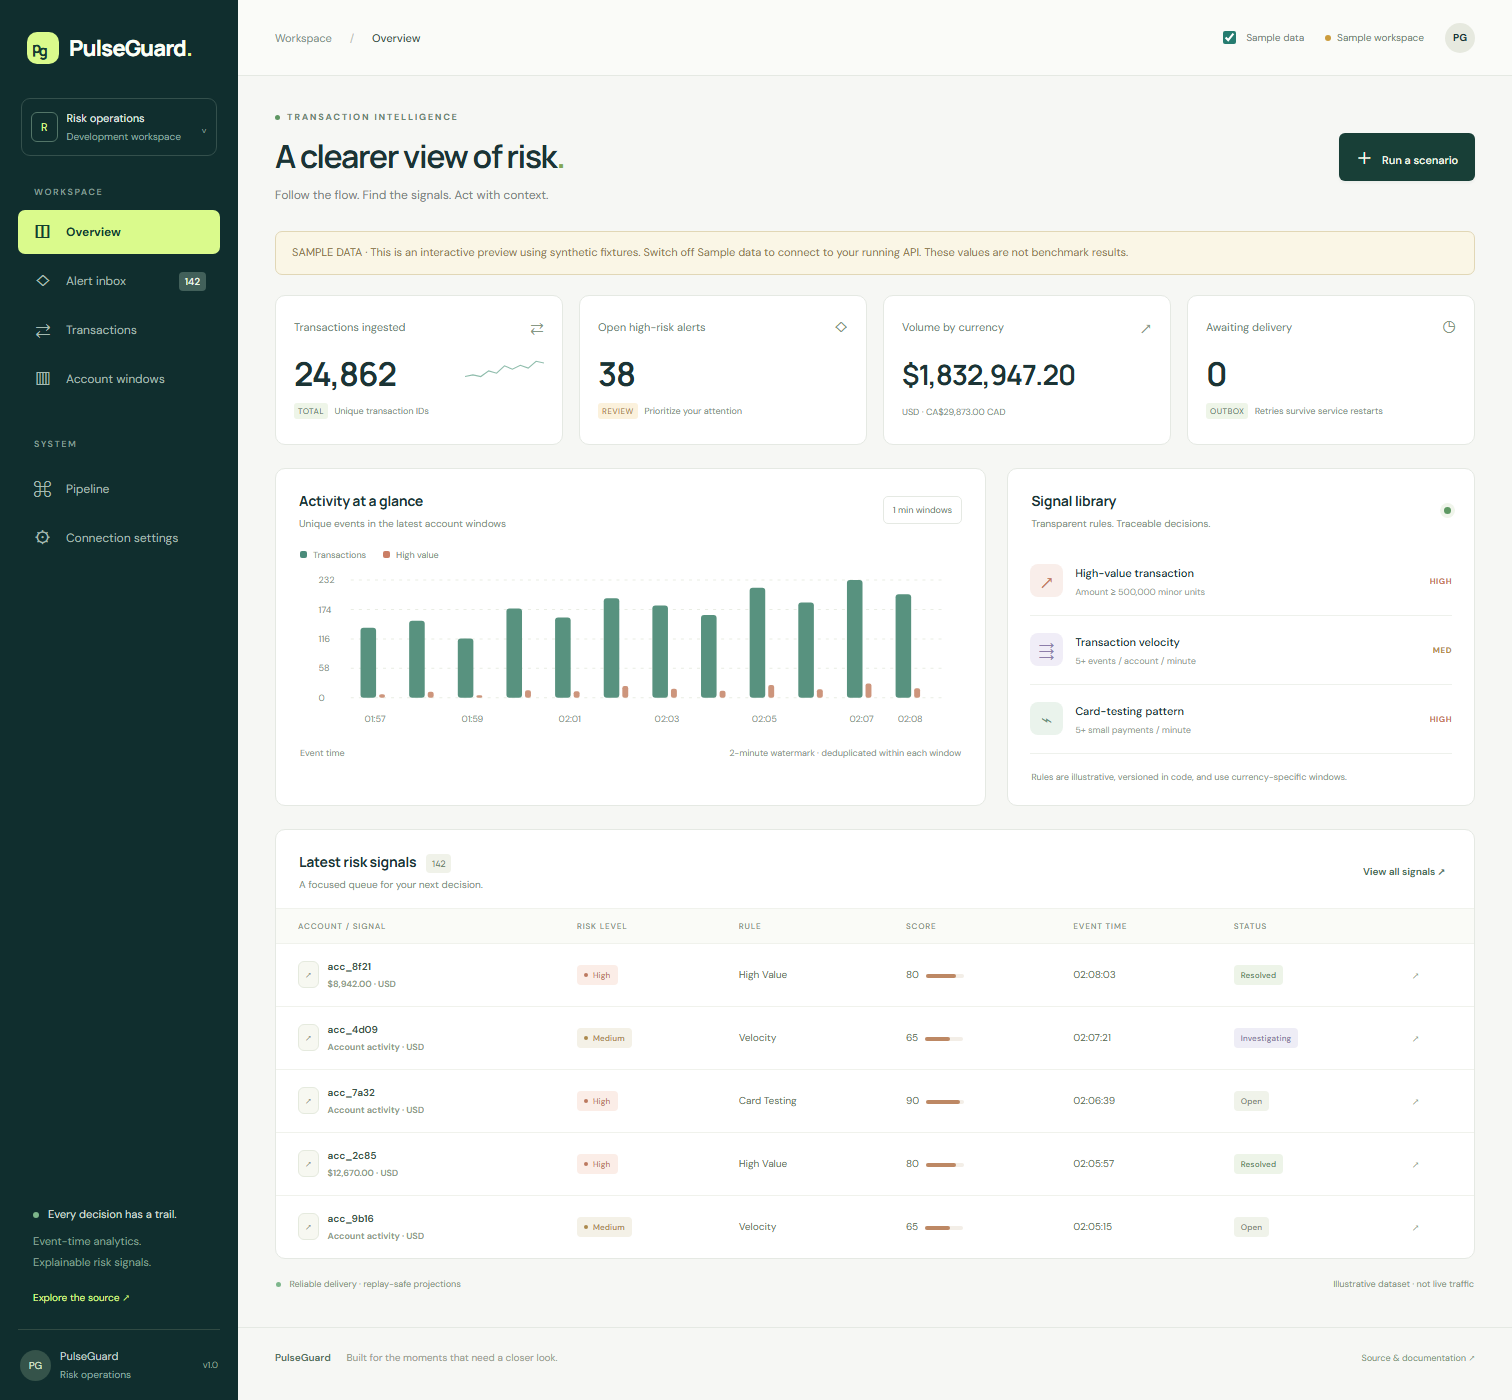
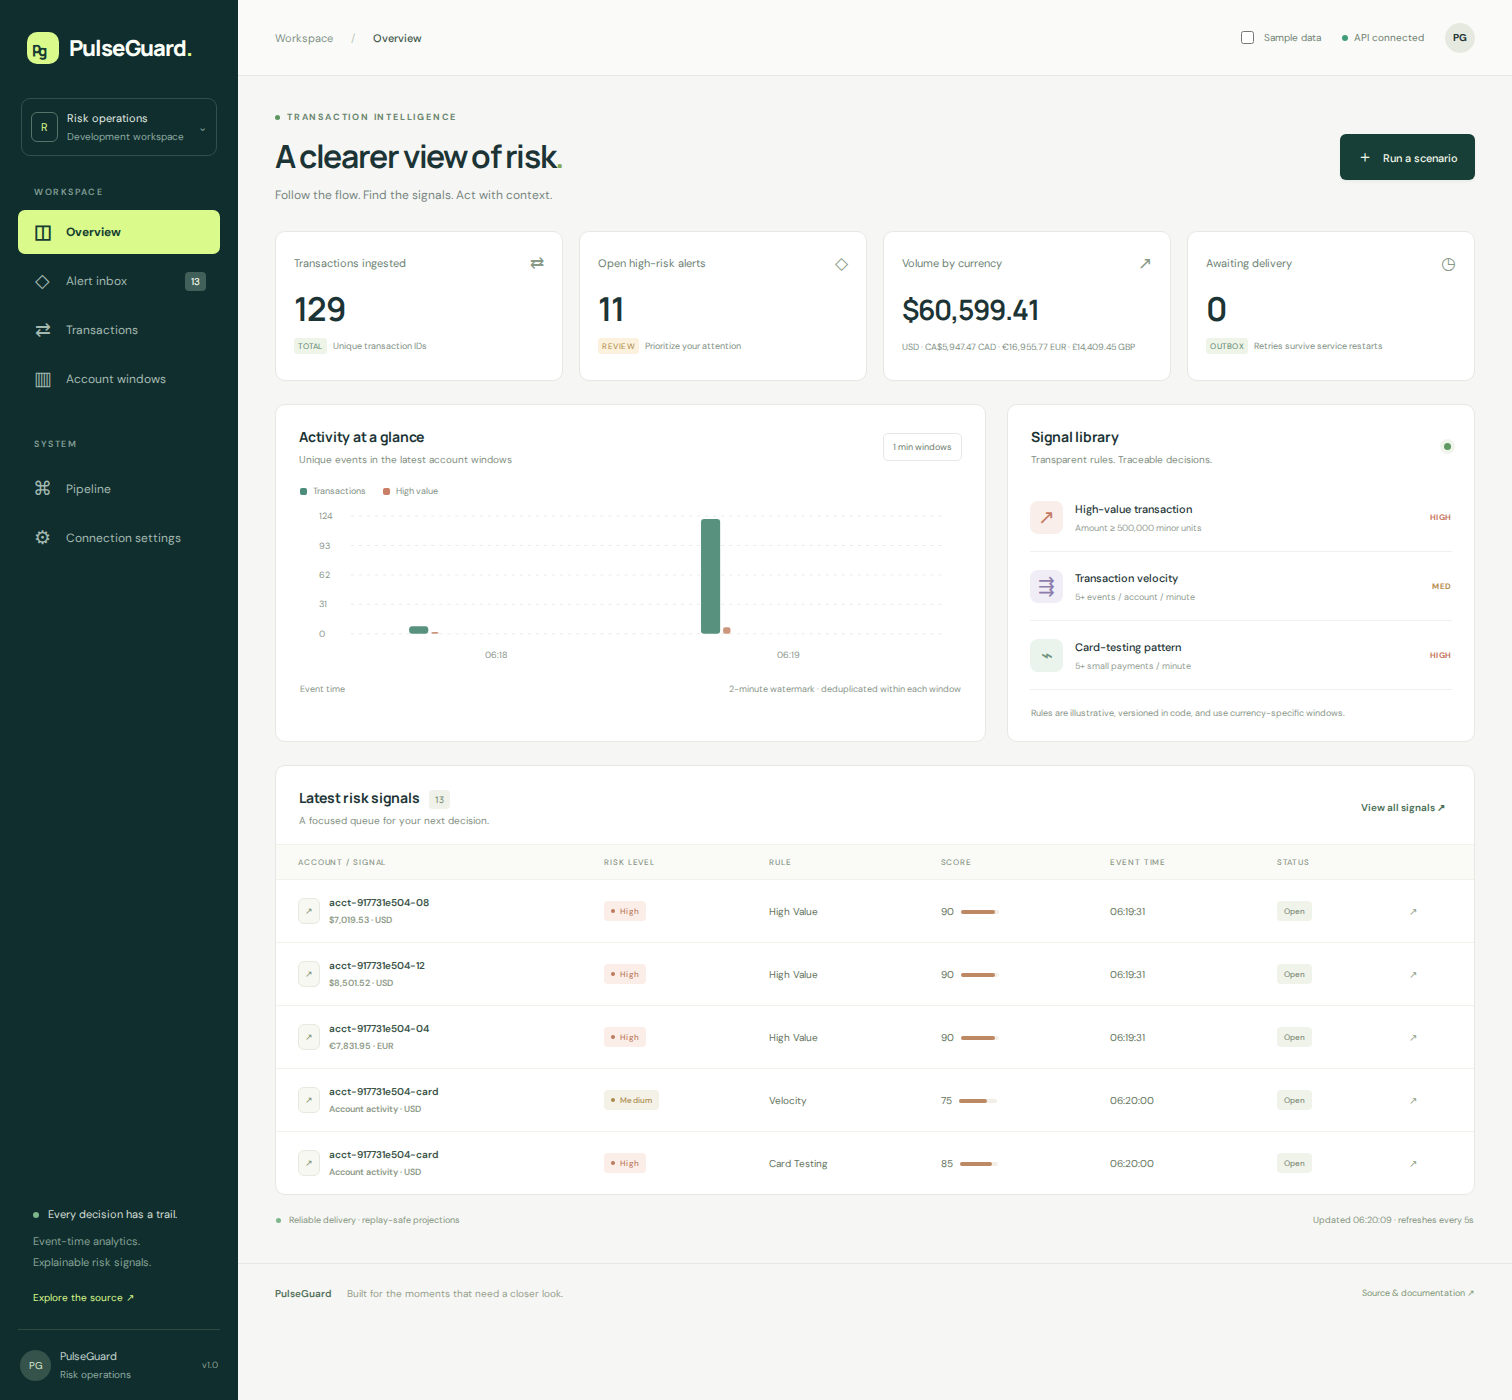
Document passing runtime verification and live dashboard evidence [skip ci]

diff --git a/docs/verification.md b/docs/verification.md
@@ -1,32 +1,73 @@
 # Verification record
 
-This file records observed results, separately from the deployment reference and future capacity work.
+Observed on **2026-09-13**. All figures below come from retained CI output. The source events are synthetic; Kafka, MongoDB, Spark, the Java API, browser and Kubernetes cluster are real running components.
 
-## Local environment
+## Passing runs
 
-- Windows 11, Microsoft OpenJDK 17.0.16, Maven 3.9.11.
-- Both Java modules compile and package. The current API's 28 unit/MVC tests and streaming module's 21 unit tests pass locally.
-- Real local Spark parsing and batch aggregation execute on the JVM. The file-stream checkpoint test requires Linux/Hadoop native support and was blocked on Windows by `NativeIO$Windows.access0`.
-- Compose/Kustomize/configuration rendering and Kafka connector dependency resolution were checked.
-- Docker Desktop failed during its own inference-manager startup, before the project containers could launch. No local full-stack success is claimed.
+| Run | Commit | Observed result |
+|---|---|---|
+| [Full verify workflow](https://github.com/wxw2002a/pulseguard/actions/runs/34742387094) | `7554a95` | Java tests, browser checks and full Compose recovery pipeline all pass |
+| [Kubernetes smoke](https://github.com/wxw2002a/pulseguard/actions/runs/34742236882) | `1897933` | Real one-node kind cluster; development manifests deploy and the payment event pipeline passes |
 
-## Continuous integration
+The difference between these commits changes documentation, a UI ordering caption and the Compose-only BSON assertion/export. The application backend, Spark engine and Kubernetes manifests tested in the cluster are identical. Later evidence-only commits do not change the tested runtime.
 
-The [verify workflow](https://github.com/wxw2002a/pulseguard/actions/workflows/ci.yml) contains independent jobs:
+## Java: 57 tests, zero failures, zero skips
 
-1. Java unit/MVC tests, real local Spark event-time/checkpoint tests, and Testcontainers MongoDB/Kafka integration tests.
-2. Build and start the entire Compose stack, exercise the API/rules and original evidence, inject Kafka duplicates/invalid records, and restart Spark against retained checkpoints. Require both new event alerts and window updates after restart, preserve review history, then stop/recover Kafka to verify the durable outbox. Produce a measured HTTP load report and capture the dashboard against the running API.
-3. Chromium checks for the dashboard's live/preview distinction, filters, review actions, authenticated synthetic scenarios, escaping, mobile layout and failure states.
+The [retained JUnit summary](artifacts/java-test-summary.json) contains all suite counts:
 
-Each run uploads Maven test reports and pipeline logs/reports. Consult the linked run for its current status; a workflow definition alone is not evidence that its jobs have passed. A pinned passing-run reference will be added after the first successful execution.
+- **28 API unit/MVC tests:** request validation, immutable IDs and conflicts, outbox leases/acknowledgements, exact Kafka wire timestamp, nanosecond-preserving storage, review validation and investigation queries.
+- **5 real MongoDB/Kafka integration tests:** actual publication, concurrent ingestion, lease recovery, exact evidence boundaries and concurrent review-history capacity.
+- **21 streaming unit tests:** strict parsing, integer amounts, rule boundaries, stable identities and Mongo insert-only updates.
+- **3 real Spark tests:** SQL decoding, account/currency deduplication, and cross-batch duplicate delivery followed by checkpoint restore and late-window eviction.
 
-The separate manually dispatched `kubernetes-smoke` workflow creates an actual one-node kind cluster, loads the application images, applies the Kustomize development stack, waits for rollout/readiness and exercises the same HTTP/Kafka/Spark flow. This validates the single-pod development configuration when it passes; it does not validate native multi-node Spark execution.
+These include actual Spark execution and Testcontainers services; their absence is not silently converted into a successful skip.
 
-## Scope that is not established by these tests
+## Full Compose failure/recovery scenario
 
-- Native multi-node Kubernetes Spark execution, high availability or failure of a real storage node.
-- Production throughput, end-to-end latency percentiles or a maximum supported account cardinality.
-- Fraud classification accuracy or financial benefit.
-- Compliance, a security audit, or safe public deployment with real transaction data.
+[Retained e2e report](artifacts/e2e-report.json) and [final container state](artifacts/compose-status.txt). All checks passed:
 
-The dashboard screenshot explicitly uses synthetic sample data. Its counters and graph are not measured runtime evidence.
+1. Reject incorrect API keys and invalid negative amounts.
+2. Accept seven initial unique transactions; accept an identical retry without another ledger record and reject a conflicting retry with 409.
+3. Materialize `HIGH_VALUE`, `VELOCITY` and `CARD_TESTING` signals. The six-event small-payment window has exactly **3,000 minor units**, without double counting.
+4. Link the original single-event evidence and all six matching window transactions; preserve their identities, amounts and timestamps.
+5. Record an operator label, review rationale and INVESTIGATING status.
+6. Inject duplicate Kafka events and a malformed record. Quarantine the malformed record with a deterministic topic/partition/offset ID.
+7. Restart Spark with persisted checkpoints. Require a new alert **and** a new window update; verify counts, alert identities, quarantine identity and review history are preserved.
+8. Stop Kafka. Accept a new transaction into the durable outbox while the broker is unavailable. Restart Kafka; wait for the transaction to become SENT and produce its high-value alert.
+
+The scenario accepted **9 unique events**, plus explicit duplicate and malformed deliveries. It completed in **43.812 seconds after the test began waiting for API readiness**. This is scenario duration, not event latency or a capacity benchmark.
+
+## Kubernetes development deployment
+
+The passing workflow created a real **kind 0.33.0 / Kubernetes 1.34.11** single-node cluster, built/loaded application images, applied Kustomize resources, waited for StatefulSet/Deployment readiness and completed a seven-event HTTP → Kafka → Spark → MongoDB scenario.
+
+The [Kubernetes e2e report](artifacts/kubernetes-e2e-report.json) verifies all three rules, duplicate/conflict handling and original evidence. The [resource snapshot](artifacts/kubernetes-resources.txt) records running API/Kafka/MongoDB/Spark pods and three Bound PVCs. The HPA is present; metrics-server is not installed in this test, so automatic scaling is **not** exercised.
+
+This is the **single-pod `local[2]` Spark development configuration**. The optional native distributed driver/executor submission is not covered by this result. Kafka outage and Spark restart scenarios ran in Compose, not in the Kubernetes smoke job; the Kubernetes report marks those fields false accordingly.
+
+## Measured HTTP exercise
+
+[Raw load report](artifacts/load-report.json), from the same passing Compose run:
+
+| Measurement | Result |
+|---|---:|
+| Requested generator rate | 20 requests/s |
+| Submitted / accepted | 120 / 120 |
+| Errors / duplicates | 0 / 0 |
+| Duration | 5.956 s |
+| Observed acceptance rate | 20.15 responses/s |
+| HTTP latency p50 / p95 / p99 | 5.91 / 21.83 / 63.24 ms |
+
+This is a **short functional load exercise on a GitHub-hosted Ubuntu runner**, rate-limited by the client. Compose capped the API at 768 MB, Spark at 2 GB, MongoDB at 768 MB and Kafka at 1 GB. It measures HTTP acceptance, not completed risk analysis, maximum sustainable throughput or a production SLO. The small difference from the scheduled 20 requests/s reflects a finite sample whose first request is submitted immediately.
+
+## Browser and runtime screenshot
+
+Chromium checks cover sample-mode labeling, severity filtering, keyboard alert access, reasoned reviews, authenticated scenario payloads, unique event IDs, escaped untrusted text, mobile width and offline state.
+
+The [README screenshot](assets/dashboard.png) was separately captured against the actual running Compose API after the recovery scenario and 120-event load. It shows **129 accepted transactions, 13 signals and zero pending outbox records**. Sample data is disabled. These are real outputs for synthetic inputs, not fixture counters or fraud-accuracy measurements.
+
+## Local environment and limits
+
+Local Java validation used Windows 11, Microsoft OpenJDK 17.0.16 and Maven 3.9.11. Both modules compiled and packaged. Windows lacked Hadoop NativeIO support for the file-stream checkpoint test, and Docker Desktop failed during its own inference-manager startup before containers could launch. Full runtime verification therefore ran successfully in Linux CI; no local Docker success is claimed.
+
+Not established by the above results: native multi-node Spark execution, high availability under node/storage loss, production capacity, end-to-end latency percentiles, fraud accuracy, financial benefit or a security/compliance audit. Those require separate workloads and deployment designs.

diff --git a/README.md b/README.md
@@ -5,6 +5,7 @@
 **Real-time transaction risk analytics. Built to explain every signal and survive replay.**
 
 [![verify](https://github.com/wxw2002a/pulseguard/actions/workflows/ci.yml/badge.svg)](https://github.com/wxw2002a/pulseguard/actions/workflows/ci.yml)
+[![Kubernetes](https://github.com/wxw2002a/pulseguard/actions/workflows/kubernetes.yml/badge.svg)](https://github.com/wxw2002a/pulseguard/actions/workflows/kubernetes.yml)
 ![Java](https://img.shields.io/badge/Java-17-31594e)
 ![Spark](https://img.shields.io/badge/Apache_Spark-3.5.8-d28557)
 ![License](https://img.shields.io/badge/license-MIT-809b65)
@@ -23,9 +24,9 @@ PulseGuard is an **e-commerce payment event monitoring and investigation system*
 
 The system monitors events after they are received; it does not authorize, block, refund or move money. A payment service integrates by posting its normalized events to the ingestion API with a stable transaction ID. The included generator drives that same interface using synthetic data.
 
-![PulseGuard risk workspace — explicitly labeled synthetic sample data](docs/assets/dashboard.png)
+![PulseGuard live risk workspace connected to the verified Kafka and Spark pipeline](docs/assets/dashboard.png)
 
-*The screenshot uses the dashboard's explicitly labeled Sample data mode. Its figures are illustrative, not benchmark results. Live mode reads the real API and displays connection failures rather than substituting fixtures.*
+*Captured from the [successful Compose run](https://github.com/wxw2002a/pulseguard/actions/runs/34742387094): 129 synthetic transaction events were submitted through the real API, Kafka, Spark and MongoDB stack. The dashboard is in live mode; Sample data is off. [Reports and scope](docs/verification.md) are retained in the repository.*
 
 ## Engineering capabilities
 
@@ -136,6 +137,8 @@ List endpoints return `{"items":[...]}`. Percent-encode alert IDs when placing t
 These are transparent demonstration rules. They are not trained fraud models, real payment controls, or empirically validated loss-prevention policies.
 
 ## Verify the behavior
+
+**Verified:** [57 Java tests with zero skips and a complete Compose recovery run](https://github.com/wxw2002a/pulseguard/actions/runs/34742387094), plus [actual deployment and pipeline checks on Kubernetes](https://github.com/wxw2002a/pulseguard/actions/runs/34742236882). The recovery test stops Kafka, accepts a transaction while the broker is unavailable, and confirms delivery and risk analysis after Kafka returns. Original transaction evidence and review-history preservation are also checked.
 
 ```bash
 ./mvnw -B -ntp verify                         # Java compilation, unit/MVC tests and JARs

diff --git a/docs/artifacts/README.md b/docs/artifacts/README.md
@@ -1,0 +1,14 @@
+# Retained verification artifacts
+
+These files were copied from successful GitHub Actions artifacts, preserving the observed values.
+
+| File | Source |
+|---|---|
+| `java-test-summary.json` | JUnit XML summaries from [verify 34742387094](https://github.com/wxw2002a/pulseguard/actions/runs/34742387094), commit `7554a95` |
+| `e2e-report.json` | Actual Compose pipeline, replay, review, quarantine and Kafka-outage checks in the same run |
+| `load-report.json` | 120-request, client-rate-limited HTTP acceptance exercise in the same run |
+| `compose-status.txt` | Actual container state after the same run |
+| `kubernetes-e2e-report.json` | [Kubernetes smoke 34742236882](https://github.com/wxw2002a/pulseguard/actions/runs/34742236882), commit `1897933` |
+| `kubernetes-resources.txt` | Actual pods, PVCs, Services, HPA and PDB in that cluster |
+
+The runtime screenshot is stored at `../assets/dashboard.png`. Full logs and original JUnit XML are available in the linked Actions artifacts while GitHub retains them. See [the verification record](../verification.md) for scope, timing and limitations.
